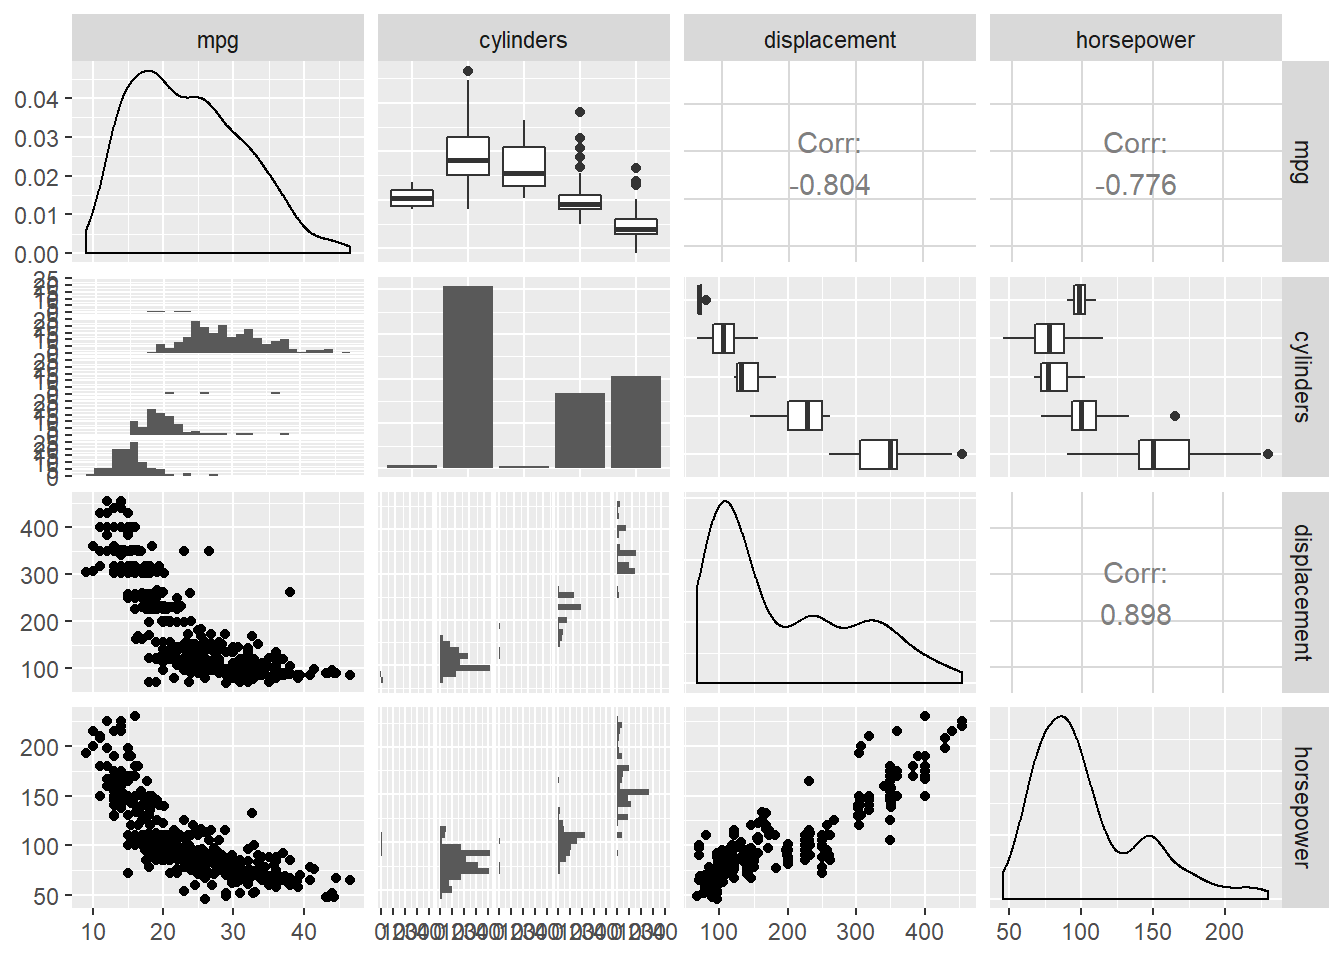
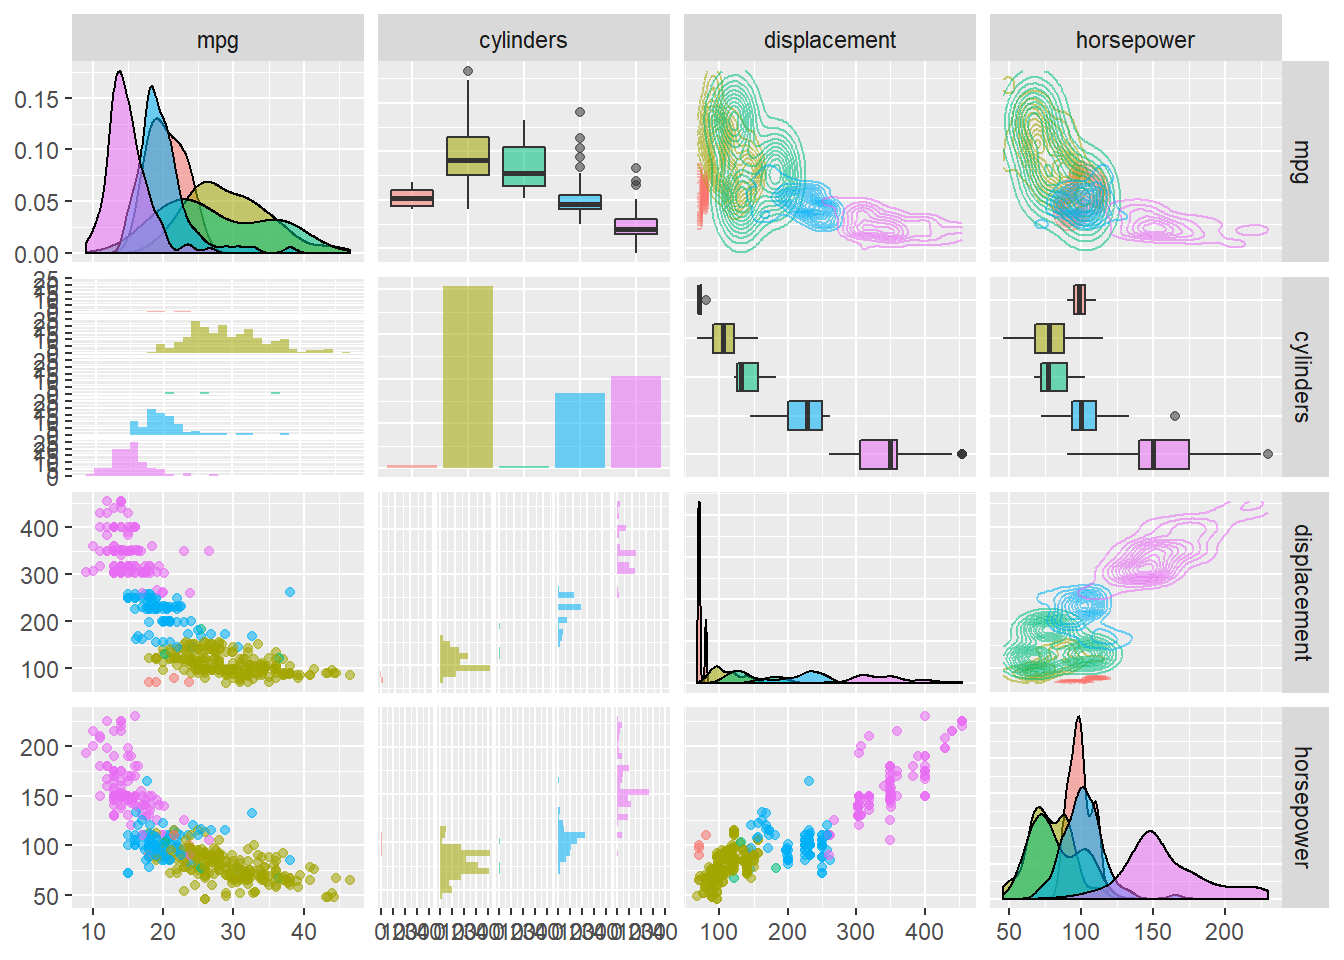
Update grap post on multivariate.

diff --git a/public/graphpost/automotive-multivariate-visualization/index.html b/public/graphpost/automotive-multivariate-visualization/index.html
@@ -88,8 +88,15 @@ am    0.60 -0.52 -0.59 -0.24  0.71 -0.69 -0.23  0.17  1.00  0.79  0.06
 gear  0.48 -0.49 -0.56 -0.13  0.70 -0.58 -0.21  0.21  0.79  1.00  0.27
 carb -0.55  0.53  0.39  0.75 -0.09  0.43 -0.66 -0.57  0.06  0.27  1.00</code></pre>
 <p><img src="/GraphPost/2019-01-19-automotive-multivariate-visualization_files/figure-html/unnamed-chunk-1-1.png" width="100%" style="display: block; margin: auto;" /></p>
-<p>The graph below is generated using <a href="https://ggplot2.tidyverse.org/"><strong>ggplot2</strong></a>, and gives us a great view of the relationship of our features. We have the density function of miles per gallon (mpg). Cylindres is a categorical variable and so is represented by an histogram. Cylindres vs. mpg gives us the fuel consumption per number of cylindres using the box-plot representation on the upper part of the graph, and in the lower partwe can appreciate the distributoìion. And in the cases where we have both variables continues the graph give back upper the correlation level and lower the graph of the relationship (e.g. displacement vs. mpg).</p>
-<p><img src="/GraphPost/2019-01-19-automotive-multivariate-visualization_files/figure-html/unnamed-chunk-2-1.png" width="100%" style="display: block; margin: auto;" /></p>
+<p>The graph below is generated using <a href="https://ggplot2.tidyverse.org/"><strong>ggplot2</strong></a>, and gives us a great view of the relationship of our features. We have the density function of miles per gallon (mpg). Cylindres is a categorical variable and so is represented by an histogram. Cylindres vs. mpg gives us the fuel consumption per number of cylindres using the box-plot representation on the upper part of the graph, and in the lower partwe can appreciate the distributoìion. And in the cases where we have both variables continues the graph give back upper the density level and lower the graph of the relationship (e.g. displacement vs. mpg).</p>
+<pre class="r"><code>library(GGally)
+ggpairs(auto[,2:5],
+        aes(color = cylinders, 
+            alpha = 0.4),
+        upper= list(continuous = &quot;density&quot;),
+        lower = list(&quot;denstrip&quot;))</code></pre>
+<p><img src="/GraphPost/2019-01-19-automotive-multivariate-visualization_files/figure-html/unnamed-chunk-3-1.png" width="100%" style="display: block; margin: auto;" /></p>
+<p>We can alo see in different color, the correlatin by the different category of cylindres. We have summarized in a single plot the different functions of density per cylindres, the histograms per category of cylindre, the correlation between continuous variables and the diagram of density. It is a completexploratory analysis.</p>
 
     </div>
   </article>

diff --git a/content/GraphPost/2019-01-19-automotive-multivariate-visualization.html b/content/GraphPost/2019-01-19-automotive-multivariate-visualization.html
@@ -30,5 +30,12 @@ am    0.60 -0.52 -0.59 -0.24  0.71 -0.69 -0.23  0.17  1.00  0.79  0.06
 gear  0.48 -0.49 -0.56 -0.13  0.70 -0.58 -0.21  0.21  0.79  1.00  0.27
 carb -0.55  0.53  0.39  0.75 -0.09  0.43 -0.66 -0.57  0.06  0.27  1.00</code></pre>
 <p><img src="/GraphPost/2019-01-19-automotive-multivariate-visualization_files/figure-html/unnamed-chunk-1-1.png" width="100%" style="display: block; margin: auto;" /></p>
-<p>The graph below is generated using <a href="https://ggplot2.tidyverse.org/"><strong>ggplot2</strong></a>, and gives us a great view of the relationship of our features. We have the density function of miles per gallon (mpg). Cylindres is a categorical variable and so is represented by an histogram. Cylindres vs. mpg gives us the fuel consumption per number of cylindres using the box-plot representation on the upper part of the graph, and in the lower partwe can appreciate the distributoìion. And in the cases where we have both variables continues the graph give back upper the correlation level and lower the graph of the relationship (e.g. displacement vs. mpg).</p>
-<p><img src="/GraphPost/2019-01-19-automotive-multivariate-visualization_files/figure-html/unnamed-chunk-2-1.png" width="100%" style="display: block; margin: auto;" /></p>
+<p>The graph below is generated using <a href="https://ggplot2.tidyverse.org/"><strong>ggplot2</strong></a>, and gives us a great view of the relationship of our features. We have the density function of miles per gallon (mpg). Cylindres is a categorical variable and so is represented by an histogram. Cylindres vs. mpg gives us the fuel consumption per number of cylindres using the box-plot representation on the upper part of the graph, and in the lower partwe can appreciate the distributoìion. And in the cases where we have both variables continues the graph give back upper the density level and lower the graph of the relationship (e.g. displacement vs. mpg).</p>
+<pre class="r"><code>library(GGally)
+ggpairs(auto[,2:5],
+        aes(color = cylinders, 
+            alpha = 0.4),
+        upper= list(continuous = &quot;density&quot;),
+        lower = list(&quot;denstrip&quot;))</code></pre>
+<p><img src="/GraphPost/2019-01-19-automotive-multivariate-visualization_files/figure-html/unnamed-chunk-3-1.png" width="100%" style="display: block; margin: auto;" /></p>
+<p>We can alo see in different color, the correlatin by the different category of cylindres. We have summarized in a single plot the different functions of density per cylindres, the histograms per category of cylindre, the correlation between continuous variables and the diagram of density. It is a completexploratory analysis.</p>
